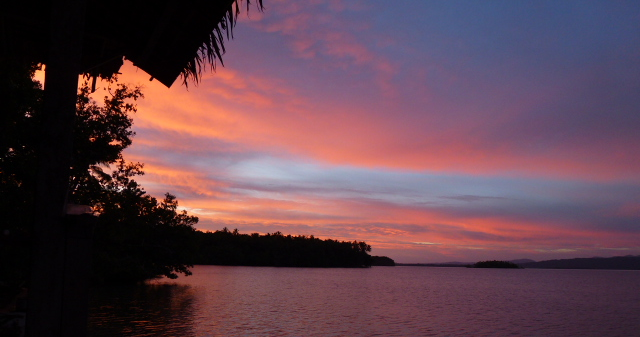
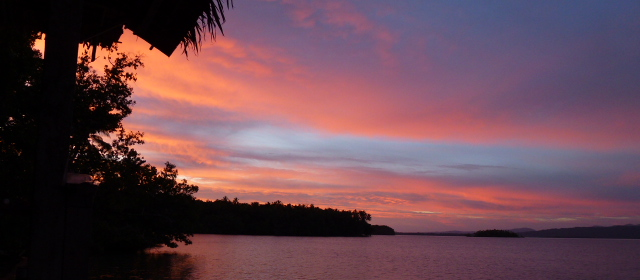
set landing page

diff --git a/home/index.html b/home/index.html
@@ -26,7 +26,7 @@
   <meta property="og:type" content="article">
   
     
-      <meta property="og:image" content="/images/solomons2.PNG">
+      <meta property="og:image" content="/images/solomons3.PNG">
       <meta property="og:image:alt" content="solomon islands">
     
   
@@ -161,8 +161,8 @@
 
     </div>
     <div class="content">
-      <a href="/home/" class="image" style="--bg-image: url('/images/solomons2.PNG');">
-    <img class="stretchH" src="/images/solomons2.PNG" alt="solomon islands">
+      <a href="/home/" class="image" style="--bg-image: url('/images/solomons3.PNG');">
+    <img class="stretchH" src="/images/solomons3.PNG" alt="solomon islands">
   </a>
       <p>I am a psycholinguist in the <a href="https://www.uni-potsdam.de/de/cogneuro/index">Cognitive Neuroscience Lab</a> and the <a href="https://www.ling.uni-potsdam.de/~vasishth/">Vasishth Lab</a> at the University of Potsdam, Germany. 
 My interest is in probabilistic sentence processing and what this tells us about how words are stored and accessed in the brain.
